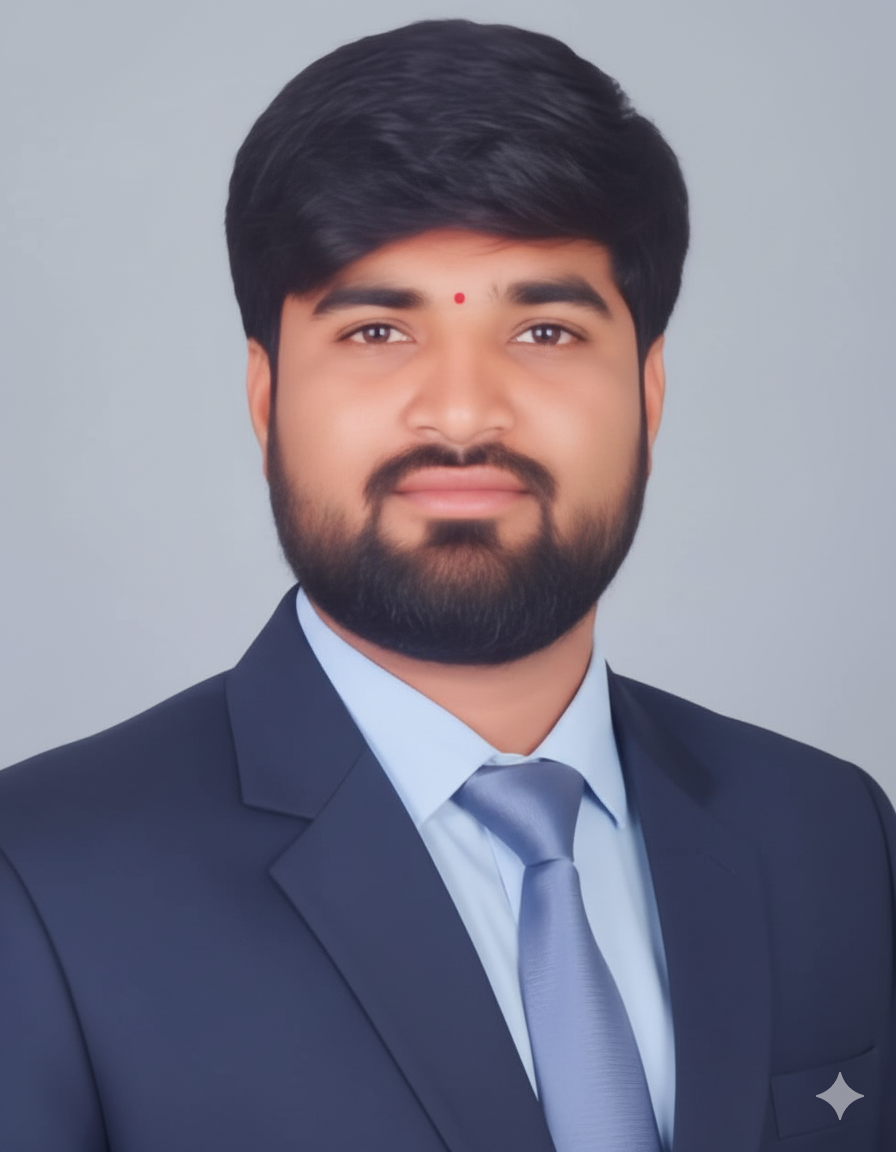
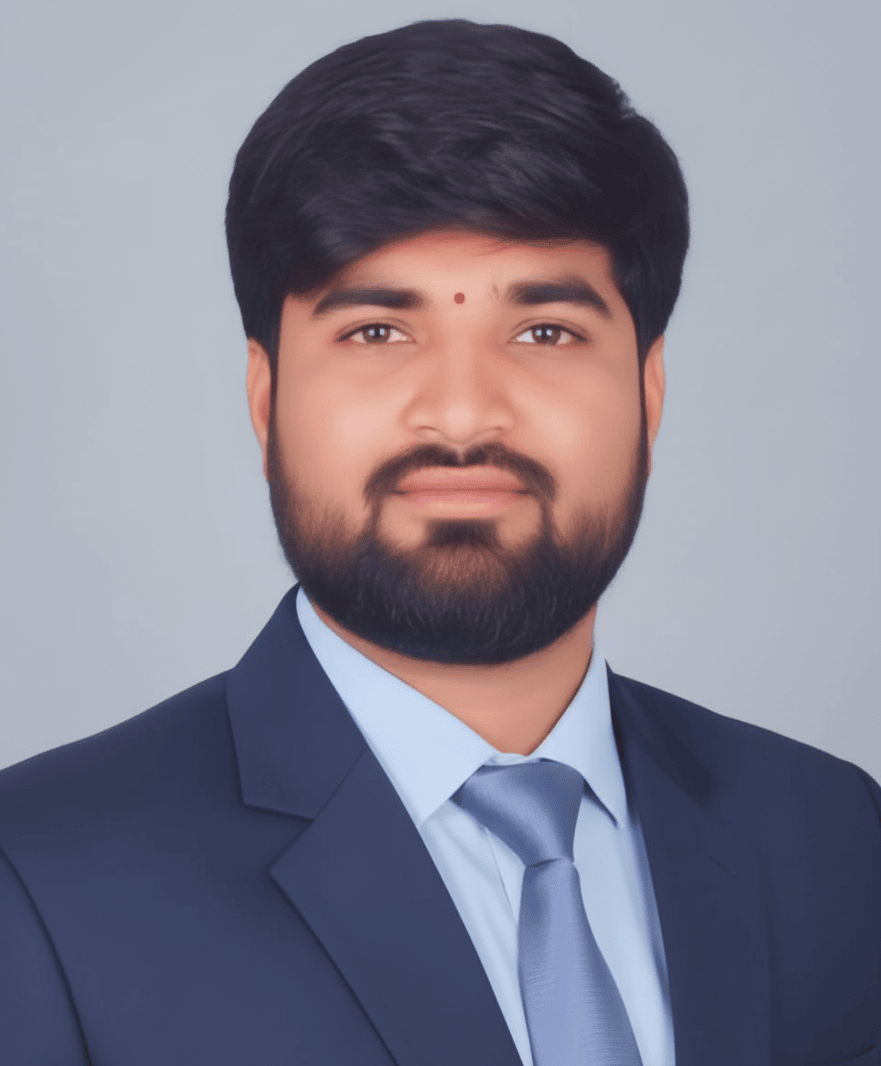
resize the team image size

diff --git a/src/pages/About.jsx b/src/pages/About.jsx
@@ -161,7 +161,7 @@ const About = () => {
                 <img
                   src={member.image}
                   alt={member.name}
-                  className="w-full h-80 object-cover"
+                  className="w-full h-100 object-cover"
                 />
                 <div className="p-6">
                   <h3 className="text-xl font-semibold text-gray-900 mb-2">
